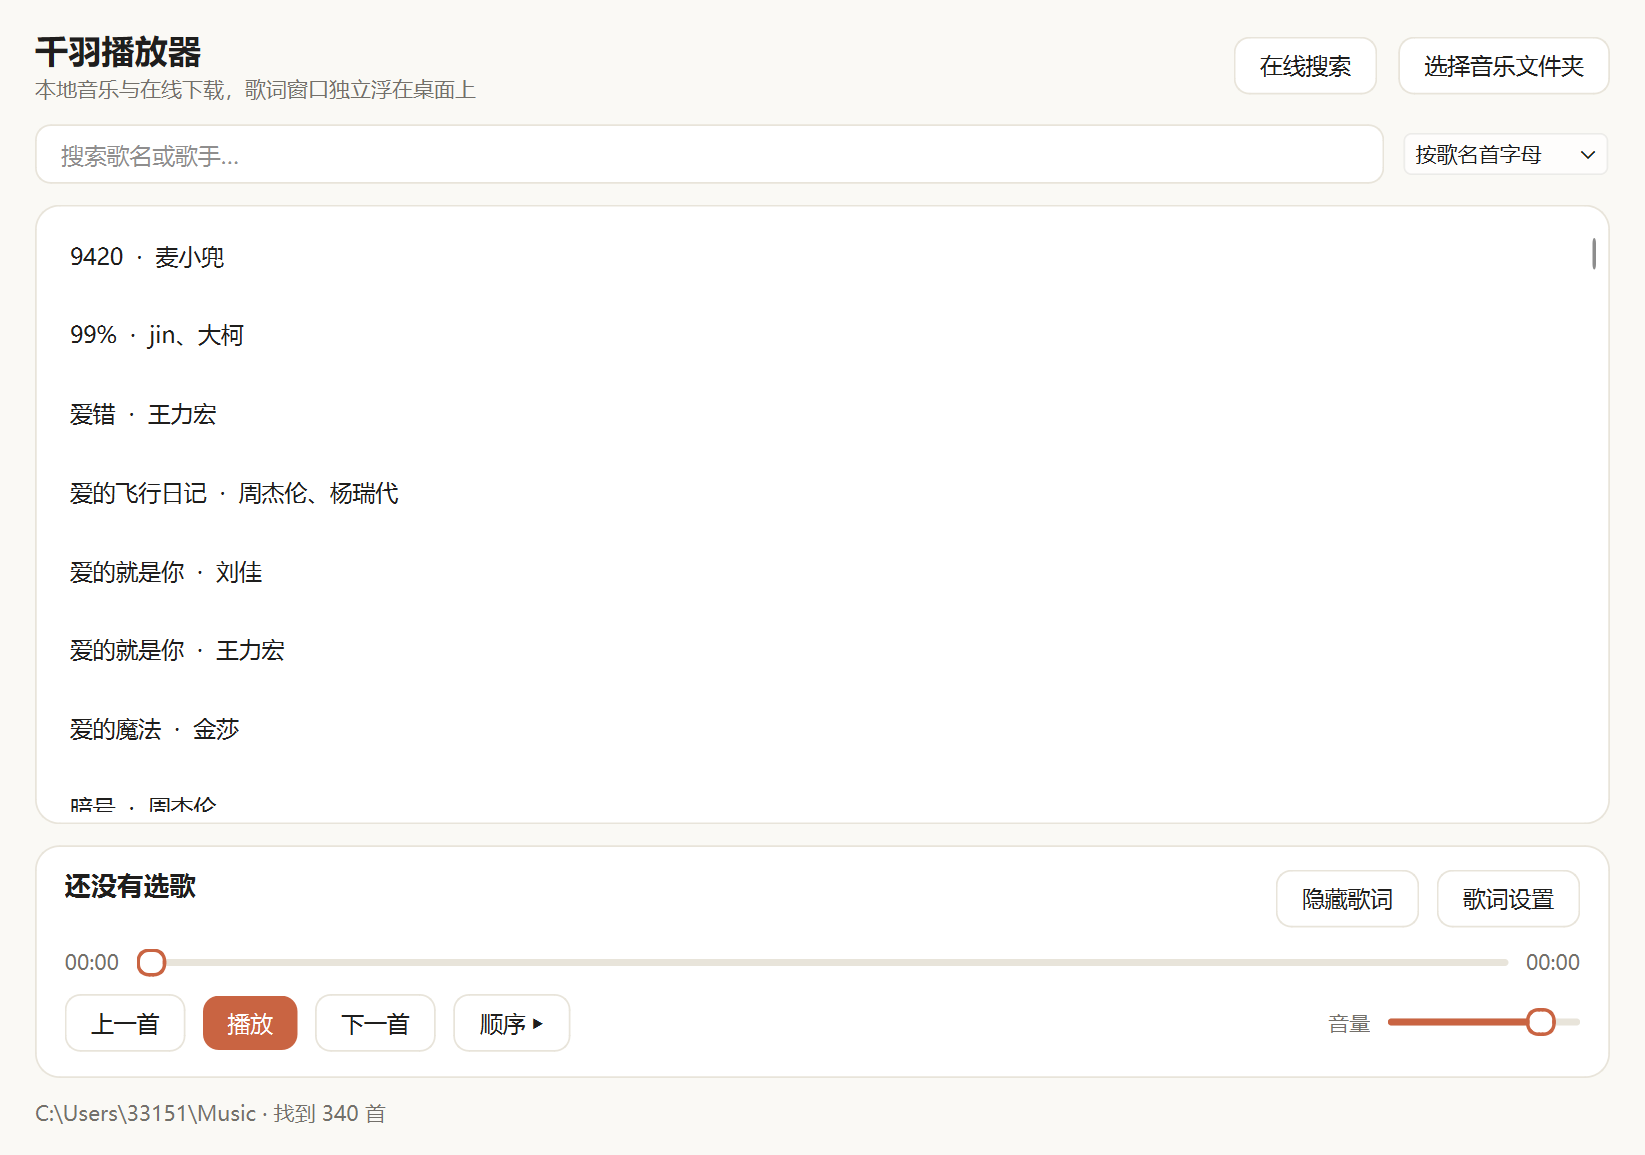
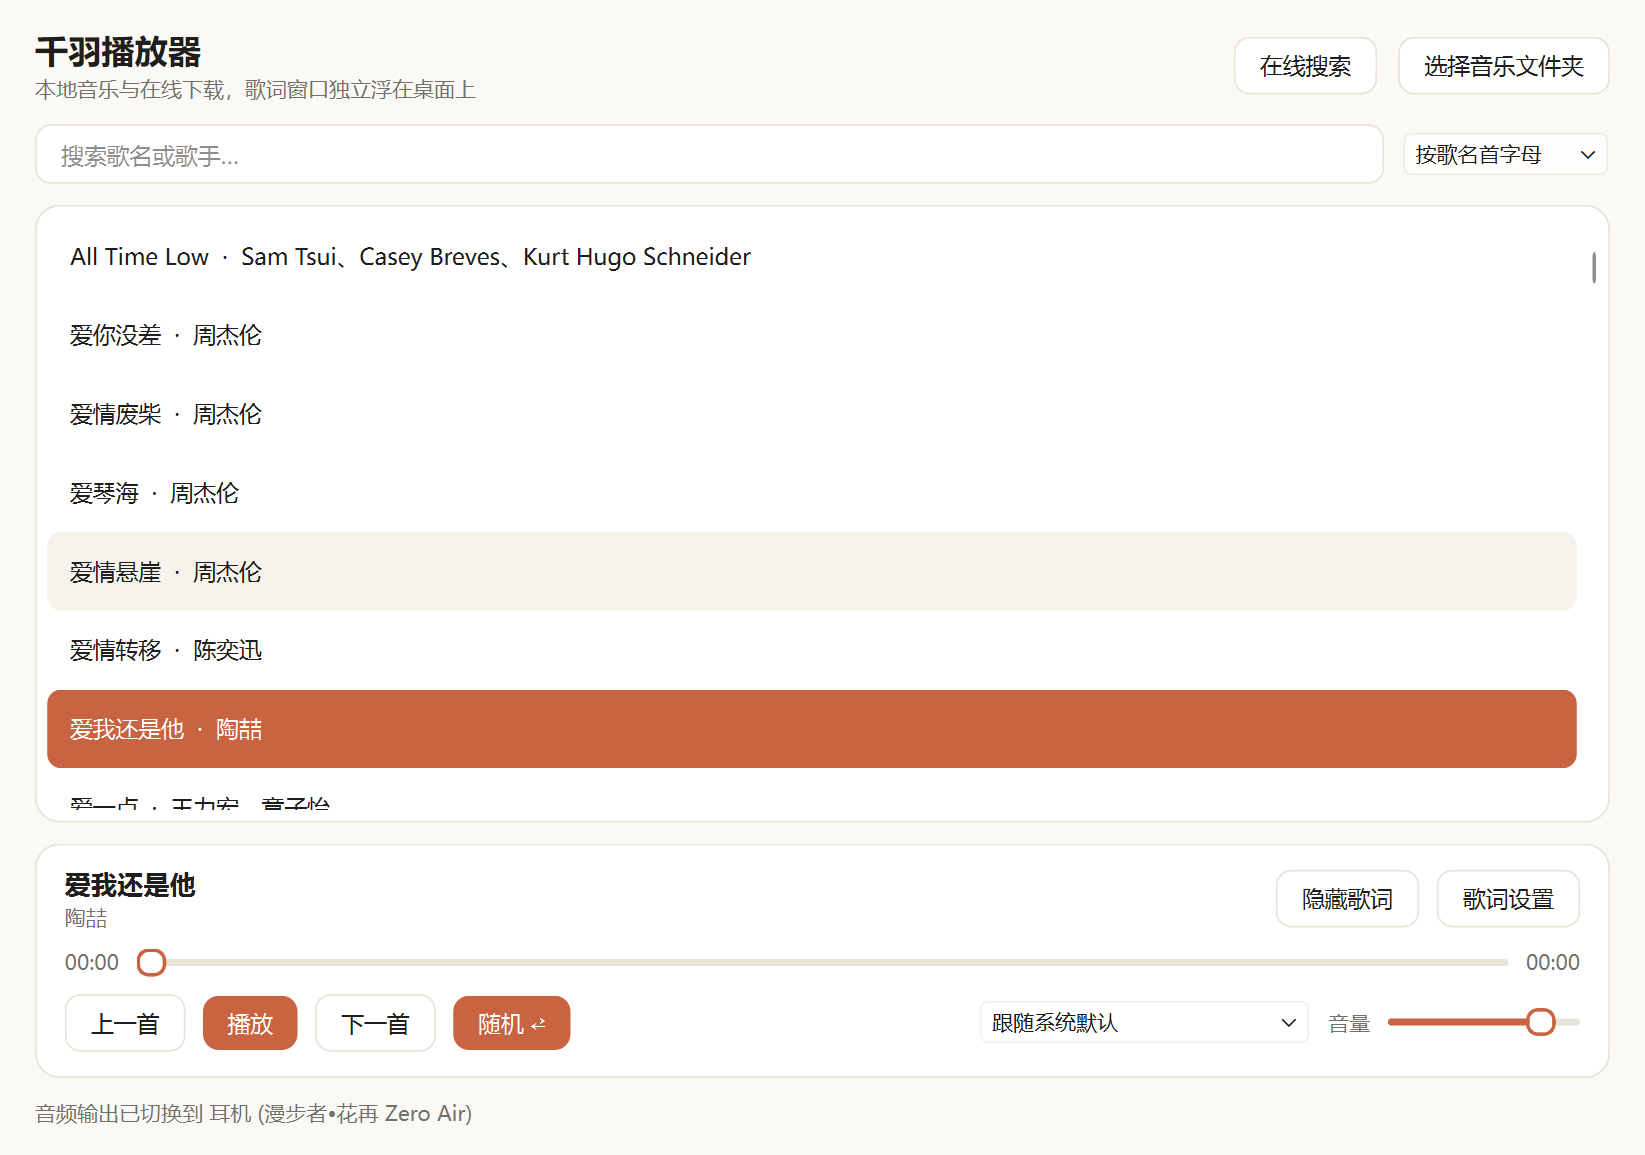
音频输出跟随系统默认设备，关闭窗口缩到状态栏
- 蓝牙耳机连上后 QAudioOutput 还绑在旧设备上导致没声音，改成两秒轮询默认设备
  加 audioOutputsChanged 回调；界面上加输出设备下拉，可选具体设备或跟随系统
- closeEvent 改成隐藏到托盘，托盘菜单含显示/歌词/播放控制/退出，双击恢复窗口
- 托盘不可用时关闭窗口直接退出，避免留下隐形进程
- 二次启动时唤起已有窗口，不再静默退出

diff --git a/player.py b/player.py
@@ -26,7 +26,7 @@ import ctypes.wintypes as wt
 from PySide6.QtCore import (QAbstractNativeEventFilter, QEvent, QSize, Qt,
                             QTimer, QUrl, Signal)
 from PySide6.QtGui import QColor, QFont, QIcon, QPainter, QPixmap, QShortcut, QKeySequence
-from PySide6.QtMultimedia import QMediaPlayer, QAudioOutput
+from PySide6.QtMultimedia import QMediaPlayer, QAudioOutput, QMediaDevices
 from pypinyin import Style, lazy_pinyin
 from PySide6.QtWidgets import (QApplication, QComboBox, QFileDialog, QFrame,
                                QHBoxLayout, QLabel, QLineEdit, QListWidget,
@@ -186,6 +186,9 @@ class PlayerWindow(QMainWindow):
         self.settings = None
         self.online = None
         self.sources = O.SourceStore()
+        self._really_quit = False
+        self._tray_hint_shown = False
+        self._auto_output = True
         self.tracks: list[Track] = []
         self.filtered: list[Track] = []
         self.current_index = -1
@@ -212,6 +215,14 @@ class PlayerWindow(QMainWindow):
         self.player.setAudioOutput(self.audio)
         self.audio.setVolume(max(0.0, min(1.0, self._saved_volume)))
 
+        # 蓝牙耳机连上/断开时系统默认输出会变，跟着切，否则播放器还留在旧设备上没声音
+        self.media_devices = QMediaDevices(self)
+        self.media_devices.audioOutputsChanged.connect(self._on_outputs_changed)
+        self._auto_output = True
+        self._audio_timer = QTimer(self)
+        self._audio_timer.timeout.connect(self._check_default_output)
+        self._audio_timer.start(2000)
+
         self.fetcher = L.LyricFetcher()
         self.fetcher.loaded.connect(self._on_lyrics)
 
@@ -226,6 +237,8 @@ class PlayerWindow(QMainWindow):
         self._install_shortcuts()
         self._refresh_mode_button()
         self._load_library()
+        self._refresh_outputs()
+        self._setup_tray()
         self._hotkey_filter = PlayerHotkeyFilter(self._on_global_hotkey)
         QApplication.instance().installNativeEventFilter(self._hotkey_filter)
         self._register_hotkeys()
@@ -355,6 +368,12 @@ class PlayerWindow(QMainWindow):
         btn_row.addWidget(self.btn_next)
         btn_row.addWidget(self.btn_mode)
         btn_row.addStretch(1)
+        self.out_combo = QComboBox()
+        self.out_combo.setMinimumWidth(150)
+        self.out_combo.setMaximumWidth(190)
+        self.out_combo.setToolTip("音频输出设备")
+        self.out_combo.currentIndexChanged.connect(self._on_output_picked)
+        btn_row.addWidget(self.out_combo)
         vol_label = QLabel("音量")
         vol_label.setObjectName("Sub")
         self.vol = QSlider(Qt.Horizontal)
@@ -431,6 +450,104 @@ class PlayerWindow(QMainWindow):
         }.get(hid)
         if action:
             action()
+
+    # ---------------- 音频输出 ----------------
+    AUTO_OUTPUT = "__auto__"
+
+    def _refresh_outputs(self, *_args) -> None:
+        if not hasattr(self, "out_combo"):
+            return
+        cur = self.audio.device()
+        cur_id = cur.id() if cur and not cur.isNull() else ""
+        self.out_combo.blockSignals(True)
+        self.out_combo.clear()
+        self.out_combo.addItem("跟随系统默认", self.AUTO_OUTPUT)
+        pick = 0
+        for dev in QMediaDevices.audioOutputs():
+            self.out_combo.addItem(dev.description(), dev.id())
+            if not self._auto_output and dev.id() == cur_id:
+                pick = self.out_combo.count() - 1
+        self.out_combo.setCurrentIndex(pick)
+        self.out_combo.blockSignals(False)
+
+    def _on_outputs_changed(self) -> None:
+        self._refresh_outputs()
+        self._check_default_output()
+
+    def _check_default_output(self) -> None:
+        """蓝牙耳机连上或断开时系统默认输出会变，跟着切过去。"""
+        if not self._auto_output:
+            return
+        dev = QMediaDevices.defaultAudioOutput()
+        if dev is None or dev.isNull():
+            return
+        cur = self.audio.device()
+        if cur and not cur.isNull() and cur.id() == dev.id():
+            return
+        self._switch_output(dev, auto=True)
+
+    def _on_output_picked(self, index: int) -> None:
+        if index < 0:
+            return
+        want = self.out_combo.itemData(index)
+        if want == self.AUTO_OUTPUT:
+            self._auto_output = True
+            dev = QMediaDevices.defaultAudioOutput()
+            if dev and not dev.isNull():
+                self._switch_output(dev, auto=True)
+            return
+        self._auto_output = False
+        for dev in QMediaDevices.audioOutputs():
+            if dev.id() == want:
+                self._switch_output(dev)
+                break
+
+    def _switch_output(self, device, auto: bool = False) -> None:
+        was_playing = self.player.playbackState() == QMediaPlayer.PlayingState
+        position = self.player.position()
+        self.audio.setDevice(device)
+        if was_playing:
+            self.player.setPosition(position)
+            self.player.play()
+        self._refresh_outputs()
+        if auto:
+            self._set_status(f"音频输出已切换到 {device.description()}")
+
+    # ---------------- 托盘 ----------------
+    def _setup_tray(self) -> None:
+        self.tray = None
+        if not QSystemTrayIcon.isSystemTrayAvailable():
+            return
+        self.tray = QSystemTrayIcon(self)
+        icon = QIcon(str(ICON_PATH)) if ICON_PATH.exists() else             self.style().standardIcon(QStyle.SP_MediaPlay)
+        self.tray.setIcon(icon)
+        self.tray.setToolTip(APP_TITLE)
+        menu = QMenu()
+        menu.addAction("显示主界面", self._restore_window)
+        menu.addAction("显示 / 隐藏歌词", self._toggle_lyrics)
+        menu.addSeparator()
+        menu.addAction("播放 / 暂停", self.toggle_play)
+        menu.addAction("上一首", lambda: self.play_relative(-1))
+        menu.addAction("下一首", lambda: self.play_relative(+1))
+        menu.addSeparator()
+        menu.addAction("退出", self._quit_app)
+        self.tray.setContextMenu(menu)
+        self.tray.activated.connect(self._on_tray_activated)
+        self.tray.show()
+
+    def _on_tray_activated(self, reason) -> None:
+        if reason in (QSystemTrayIcon.Trigger, QSystemTrayIcon.DoubleClick):
+            self._restore_window()
+
+    def _restore_window(self) -> None:
+        self.showNormal()
+        self.raise_()
+        self.activateWindow()
+
+    def _quit_app(self) -> None:
+        self._really_quit = True
+        self.close()
+        QApplication.quit()
 
     # ---------------- 音乐库 ----------------
     def _load_library(self) -> None:
@@ -729,6 +846,18 @@ class PlayerWindow(QMainWindow):
         return super().eventFilter(obj, event)
 
     def closeEvent(self, event) -> None:
+        if not self._really_quit:
+            tray_ok = bool(getattr(self, "tray", None)) and self.tray.isVisible()
+            if tray_ok:
+                event.ignore()
+                self.hide()
+                if not self._tray_hint_shown:
+                    self._tray_hint_shown = True
+                    self.tray.showMessage(APP_TITLE, "已缩到状态栏，右键图标可以退出",
+                                          QSystemTrayIcon.Information, 3000)
+                return
+            # 系统托盘不可用（某些精简系统），那就老老实实退出，别留个看不见的进程
+            self._really_quit = True
         self._unregister_hotkeys()
         self._save_player_state()
         self.player.stop()
@@ -783,12 +912,46 @@ def _fmt(ms: int) -> str:
     return f"{ms // 60000}:{(ms // 1000) % 60:02d}"
 
 
+def _wake_existing_instance() -> None:
+    """程序缩在托盘里时再次双击图标，把已有窗口叫到前台。"""
+    u = ctypes.windll.user32
+    k = ctypes.windll.kernel32
+    me = str(Path(sys.executable if getattr(sys, "frozen", False) else sys.argv[0])).lower()
+    targets: list[int] = []
+
+    @ctypes.WINFUNCTYPE(ctypes.c_bool, wt.HWND, wt.LPARAM)
+    def cb(hwnd, _lparam):
+        if not u.IsWindowVisible(hwnd):
+            return True
+        pid = wt.DWORD()
+        u.GetWindowThreadProcessId(hwnd, ctypes.byref(pid))
+        handle = k.OpenProcess(0x1000, False, pid.value)  # QUERY_LIMITED_INFORMATION
+        if not handle:
+            return True
+        try:
+            buf = ctypes.create_unicode_buffer(1024)
+            size = wt.DWORD(1024)
+            if k.QueryFullProcessImageNameW(handle, 0, buf, ctypes.byref(size)):
+                if buf.value.lower() == me:
+                    targets.append(hwnd)
+        finally:
+            k.CloseHandle(handle)
+        return True
+
+    u.EnumWindows(cb, 0)
+    if targets:
+        u.ShowWindow(targets[0], 9)  # SW_RESTORE
+        u.SetForegroundWindow(targets[0])
+
+
 def main() -> int:
     if not _single_instance_ok():
+        _wake_existing_instance()
         return 0
     app = QApplication(sys.argv)
     app.setApplicationName(APP_TITLE)
     app.setStyleSheet(PLAYER_QSS)
+    app.setQuitOnLastWindowClosed(False)
     if ICON_PATH.exists():
         app.setWindowIcon(QIcon(str(ICON_PATH)))
     win = PlayerWindow()

diff --git a/README.md b/README.md
@@ -15,8 +15,8 @@
 
 不想自己打包的话，到 [Releases](https://github.com/qianyufanyan/qianyu-player/releases/latest) 下现成的：
 
-- **便携版** `qianyu-player-v1.0.1-portable.zip`（119 MB）—— 解压后双击里面的 `千羽播放器.exe` 直接用。不写注册表、不建快捷方式，删掉文件夹就算卸载，适合放 U 盘。
-- **安装程序** `qianyu-player-v1.0.1-setup.exe`（163 MB）—— 双击安装到 `%LOCALAPPDATA%\千羽播放器`，建桌面和开始菜单快捷方式，带卸载项。
+- **便携版** `qianyu-player-v1.0.2-portable.zip`（119 MB）—— 解压后双击里面的 `千羽播放器.exe` 直接用。不写注册表、不建快捷方式，删掉文件夹就算卸载，适合放 U 盘。
+- **安装程序** `qianyu-player-v1.0.2-setup.exe`（163 MB）—— 双击安装到 `%LOCALAPPDATA%\千羽播放器`，建桌面和开始菜单快捷方式，带卸载项。
 
 两个都是 Windows 10/11 x64，机器上不用装 Python。
 
@@ -47,6 +47,25 @@
 - 音量、上次播到的歌、音乐目录都会记住
 
 双击歌名播放。
+
+## 音频输出
+
+底部「音量」左边有个设备下拉，默认是「跟随系统默认」：
+
+- 蓝牙耳机连上或断开时，系统默认输出变了，程序会在两秒内自动切过去，不用重启
+- 想固定在某个设备上，直接从下拉里选，选过之后就不再自动跟随
+- 选回「跟随系统默认」恢复自动切换
+
+## 状态栏
+
+点窗口右上角的关闭是**缩到状态栏**，不是退出，音乐继续放。
+
+- 双击托盘图标：恢复主窗口
+- 右键：显示主界面 / 显示 / 隐藏歌词 / 播放 / 暂停 / 上一首 / 下一首 / 退出
+- 真正的退出在右键菜单最下面
+- 程序缩在状态栏时再双击 exe，会把已有窗口叫到前台，不会开第二个
+
+系统托盘不可用的精简版 Windows 上，关闭窗口会直接退出，不会留一个看不见的进程。
 
 ## 在线搜索与下载
 
